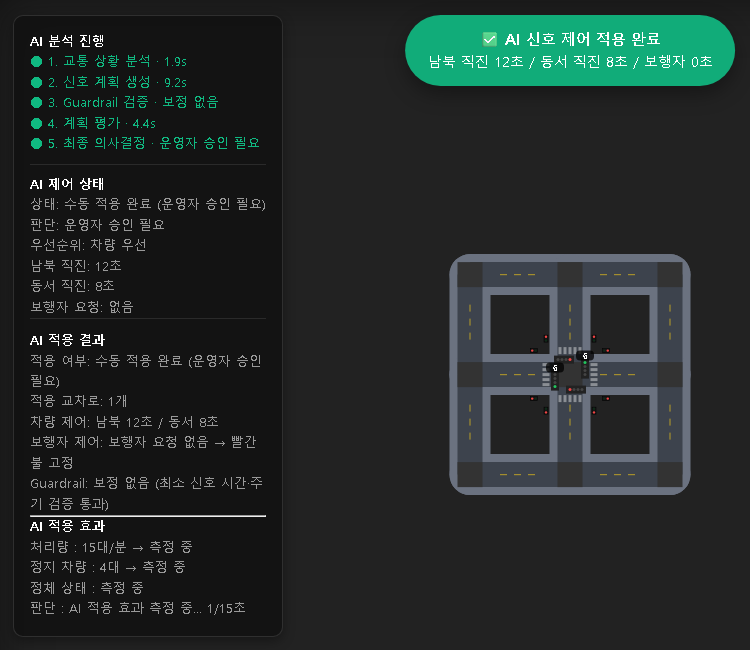
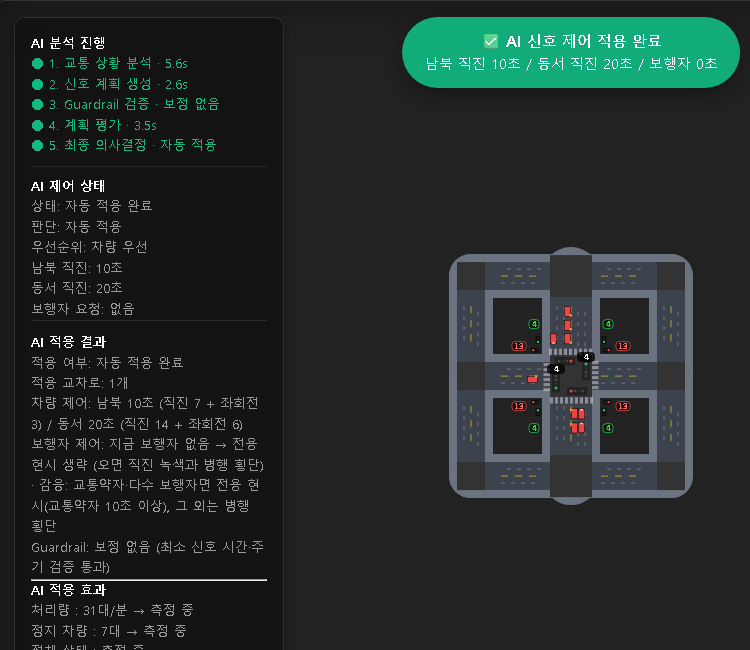
실행 화면과 Live Demo GIF를 현재 버전으로 다시 캡처
- 진행 패널·리포트·적용 화면: 실데이터 프로파일(혼잡 배율 ×1)에서 실제 Solar Pro 4 호출 1회.
  차량 11대·정지 7대, 서측 포화도 1.14 → 계획 10/20/0, 88점 자동 적용,
  15초 평균 처리량 31 → 48대/분, 정체 지수 1.00 → 0.88, 정지 7 → 7대.
- Live Demo GIF: 혼잡 배율 ×3에서 실제 호출 1회 (계획 8/22/0, 자동 적용).
- README ko/en: 실행 화면 머리말을 현재 버전 기준으로 고치고 검증 기록에 이번 실행 추가.

diff --git a/README.en.md b/README.en.md
@@ -215,6 +215,7 @@ Measured the same way on the previous version: waiting vehicles 18 → 13 (-27.8
 | Run from the profile-mode UI (9 cars, 2 queued on N, saturation 1.2) | main direction "N", plan 12/8/0, score 82, operator approval → applied manually, congestion index 0.61 → 0.35 (measured with the earlier two-phase apply) |
 | Manual mode 4x4, one lane, 49 cars, 33 stopped (the split state of the earlier before/after comparison) | main direction "north-south", plan 12/8/0, no Guardrail correction, score 88, auto apply → applied as a real signal system, throughput 121 → 131 after 60 s |
 | Manual mode 4x4, cycle 30 s, 18 cars, 2 pedestrians at the crosswalk including an elderly person | Agent 1 flags a vulnerable user, plan 12/8/10 ("one vulnerable pedestrian, so 10 s for crossing speed"), no Guardrail correction, score 82, operator approval → 10 s pedestrian-only phase after applying |
+| Run from the profile-mode UI, multiplier ×1, 11 cars, 7 stopped, W saturation 1.14 (the current report and applied screenshots, 09-17) | main direction "W", plan 10/20/0 (reason: saturation sum 1.14 north-south vs 1.71 east-west), no Guardrail correction, score 88, auto apply → 15 s mean throughput 31 → 48 veh/min, congestion index 1.00 → 0.88, stopped 7 → 7 |
 | Profile mode 08:00, lanes from the data, multiplier ×3, 35 cars, 30 stopped (the split state of the current before/after GIFs, 09-17) | main direction "east-west" (saturation E 2.86 · W 2.29), plan 12/18/0, no Guardrail correction, score 88, auto apply → throughput 100 → 98 after 60 s, stopped 21.3 → 21.4. No difference from the fixed signal |
 
 Reasoning stayed off (`reasoning_effort` not sent, 0 reasoning tokens). Response times depend on the network.
@@ -411,7 +412,7 @@ RUN_LIVE_TESTS=1 python -m pytest tests/test_agent_stream.py -v
 
 # 📸 Screenshots
 
-Captured on the Solar Pro 4 version. The agent output in the progress panel, report, applied and pedestrian-phase screens comes from real API calls; the other screens were taken without a call. The report and applied screens predate the multi-lane update (one lane, 20 s cycle), but the agent output is unchanged. The UI text is Korean.
+Captured on the current version (Solar Pro 4, 2 to 3 lanes per direction, 30 s cycle). The agent output in the progress panel, report, applied and pedestrian-phase screens comes from real API calls; the other screens were taken without a call. The UI text is Korean.
 
 ## Usage guide on first launch
 
